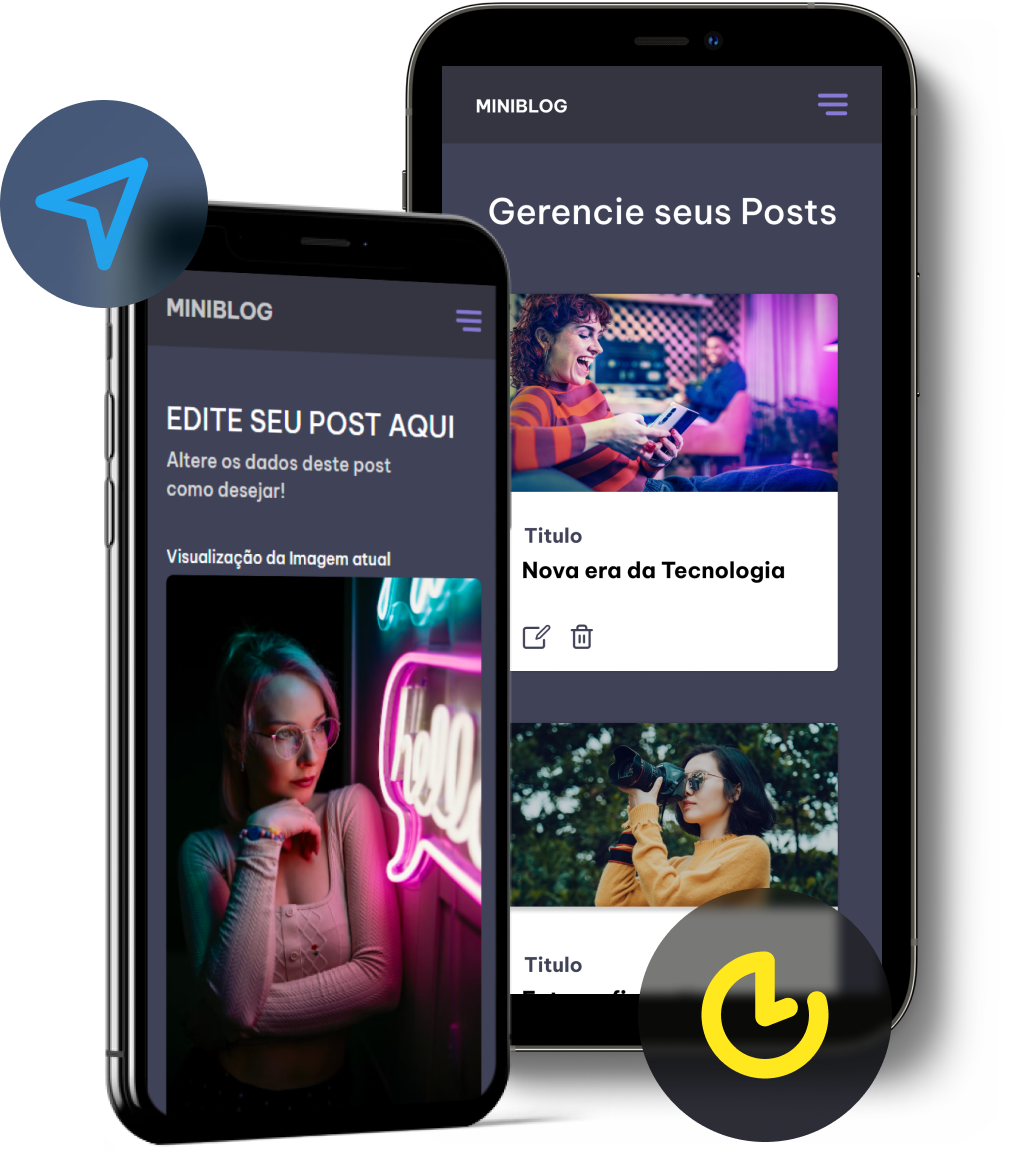
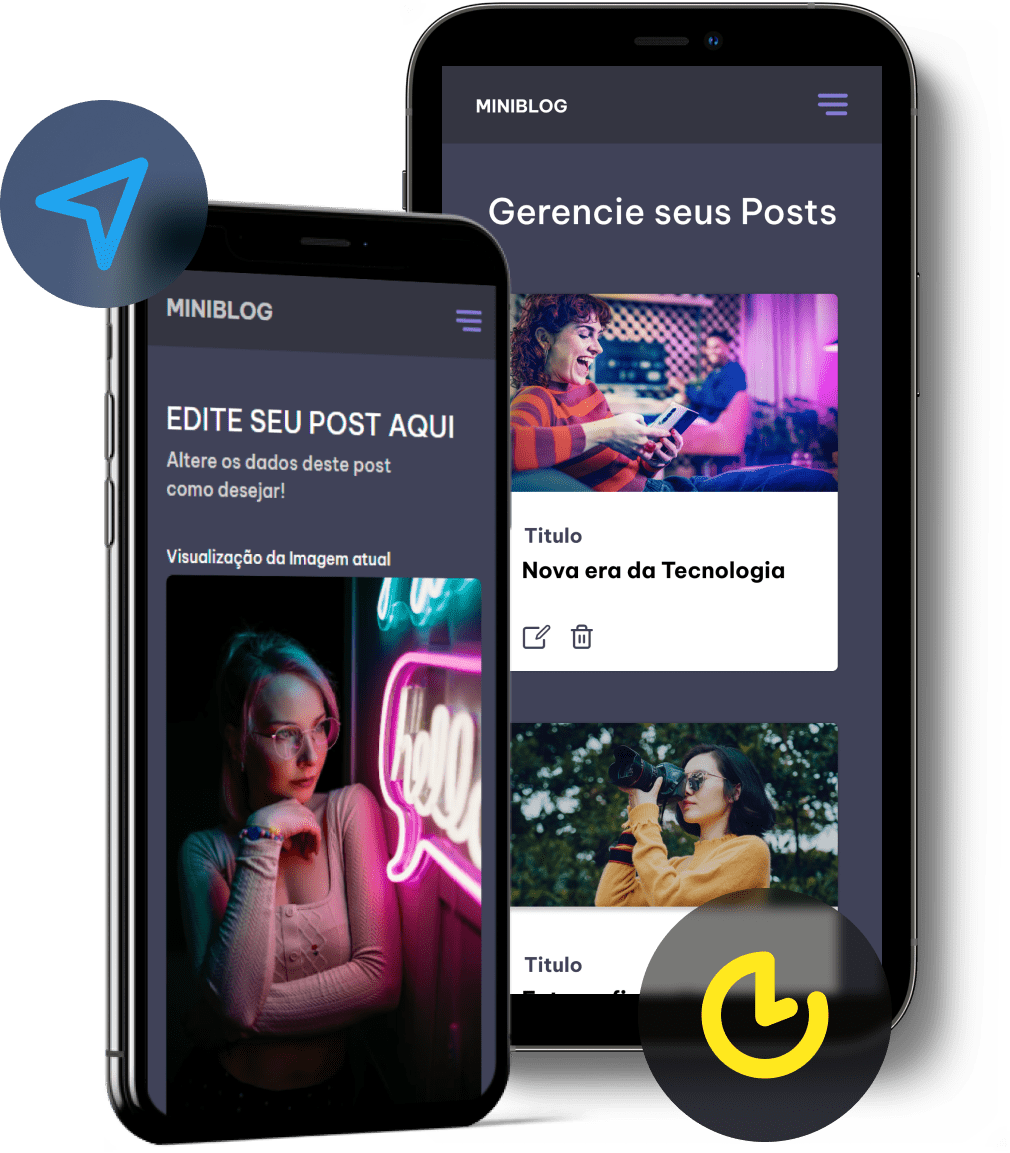
feat: navbar fixed mobile

diff --git a/src/Pages/Search/Search.jsx b/src/Pages/Search/Search.jsx
@@ -9,18 +9,16 @@ import { PostCardSkeleton } from "../../components/PostCard/PostCardSkeleton";
 export const Search = () => {
   const query = useQuery();
   const search = query.get("q").toLocaleLowerCase();
-  const {
-    documents: posts,
-  } = useFetchDocuments("posts", search);
+  const { documents: posts, loading } = useFetchDocuments("posts", search);
   return (
     <AnimatePresence>
       <motion.div
         className={styles.search}
         initial={{ opacity: 0 }}
         animate={{ opacity: 1 }}
-        transition={{ duration: 0.5, damping: 5 }}
+        transition={{ duration: 0.8, damping: 5 }}
       >
-        {posts && posts.length === 0 ? (
+        {posts && posts.length === 0 && (
           <div className={styles.notFoundSearch}>
             <div className={styles.contents}>
               <h1>Hum...</h1>
@@ -34,58 +32,56 @@ export const Search = () => {
               <img src="/NotFound.svg" alt="Ilustração NotFound" />
             </div>
           </div>
-        ) : (
-          <div className={styles.resultSearch}>
-            <Link to="/">
-              <svg
-                width="20"
-                height="16"
-                viewBox="0 0 20 16"
-                fill="none"
-                xmlns="http://www.w3.org/2000/svg"
-              >
-                <path
-                  d="M18.9167 8H2"
-                  stroke="#F0F9FF"
-                  strokeWidth="2"
-                  strokeLinecap="round"
-                  strokeLinejoin="round"
-                />
-                <path
-                  d="M8 15L1 8L8 1"
-                  stroke="#F0F9FF"
-                  strokeWidth="2"
-                  strokeLinecap="round"
-                  strokeLinejoin="round"
-                />
-              </svg>
-            </Link>
-
-            <h1>
-              Resultados da busca por <span>{search}</span>{" "}
-            </h1>
-          </div>
         )}
 
-        {posts ? (
-          posts.map((post) => {
-            return (
-              <>
-                <PostCard
-                  id={post.id}
-                  key={`post.id ${"search"}`}
-                  CreatedDate={post.createdDate}
-                  CreatedBy={post.createdBy}
-                  title={post.title}
-                  content={post.content}
-                  image={post.image}
-                  arrayTags={post.arrayTags}
-                />
-              </>
-            );
-          })
-        ) : (
-          <PostCardSkeleton />
+        {posts && posts.length > 0 && (
+          <>
+            <div className={styles.resultSearch}>
+              <Link to="/">
+                <svg
+                  width="20"
+                  height="16"
+                  viewBox="0 0 20 16"
+                  fill="none"
+                  xmlns="http://www.w3.org/2000/svg"
+                >
+                  <path
+                    d="M18.9167 8H2"
+                    stroke="#F0F9FF"
+                    strokeWidth="2"
+                    strokeLinecap="round"
+                    strokeLinejoin="round"
+                  />
+                  <path
+                    d="M8 15L1 8L8 1"
+                    stroke="#F0F9FF"
+                    strokeWidth="2"
+                    strokeLinecap="round"
+                    strokeLinejoin="round"
+                  />
+                </svg>
+              </Link>
+              <h1>
+                Resultados da busca por <span>{search}</span>{" "}
+              </h1>
+            </div>
+            {loading && <PostCardSkeleton />}
+            {!loading &&
+              posts?.map((post) => {
+                return (
+                  <PostCard
+                    id={post.id}
+                    key={`post.id ${"search"}`}
+                    CreatedDate={post.createdDate}
+                    CreatedBy={post.createdBy}
+                    title={post.title}
+                    content={post.content}
+                    image={post.image}
+                    arrayTags={post.arrayTags}
+                  />
+                );
+              })}
+          </>
         )}
       </motion.div>
     </AnimatePresence>

diff --git a/src/Pages/Dashboard/Dashboard.jsx b/src/Pages/Dashboard/Dashboard.jsx
@@ -5,13 +5,12 @@ import { useFetchDocuments } from "../../hooks/useFetchDocuments";
 import { useDeleteDocument } from "../../hooks/useDeleteDocument";
 import { PostDashboard } from "../../components/PostDashboard/PostDashboard";
 import { PostDashboardSkeleton } from "../../components/PostDashboard/PostDashboardSkeleton";
+import { motion } from "framer-motion";
 
 export const Dashboard = () => {
   const { user } = useAuthValue();
   const uid = user.uid;
-  const {
-    documents: posts, loading
-  } = useFetchDocuments("posts", null, uid);
+  const { documents: posts, loading } = useFetchDocuments("posts", null, uid);
   const { deleteDocument, response } = useDeleteDocument("posts");
 
   return (
@@ -36,25 +35,31 @@ export const Dashboard = () => {
                 id={post.id}
                 deleteDocument={deleteDocument}
               />
-            )
-          })
-        }
+            );
+          })}
       </div>
 
       {posts && posts.length == 0 && (
         <>
-          <div className={styles.dashboardNoPosts}>
-            <div>
+          <motion.div
+            className={styles.dashboardNoPosts}
+            initial={{ opacity: 0 }}
+            animate={{ opacity: 1 }}
+            transition={{ duration: 0.5, damping: 5 }}
+          >
+            <div className={styles.leftArea}>
+              <h2>Começe agora mesmo</h2>
               <p>Não foram encontros posts, crie um novo post agora </p>
               <Link to="/posts/create">
                 <button className={styles.btn}>Criar Post</button>
               </Link>
+              <img src="/GroupPost.jpg" alt="" />
             </div>
 
             <div className={styles.image}>
               <img src="./CreatePost.svg" alt="" />
             </div>
-          </div>
+          </motion.div>
         </>
       )}
     </div>

diff --git a/src/components/NavBar/NavBar.jsx b/src/components/NavBar/NavBar.jsx
@@ -1,5 +1,5 @@
 import { useEffect } from "react";
-import { NavLink, Link } from "react-router-dom";
+import { NavLink, Link, useNavigate } from "react-router-dom";
 import { useAuthValue } from "../../context/AuthContext";
 import { useAuthentication } from "../../hooks/useAuthentication";
 import { motion, AnimatePresence } from "framer-motion";
@@ -10,6 +10,7 @@ export const NavBar = () => {
   const { app } = useAppContext();
   const { logout } = useAuthentication();
   const { user } = useAuthValue();
+  const navigate = useNavigate();
 
   useEffect(() => {
     window.addEventListener("resize", updateScreen);
@@ -27,14 +28,20 @@ export const NavBar = () => {
     <header>
       <nav className={styles.nav}>
         <div className={styles.logo}>
-          <Link to="/">
+          <Link
+            to="/"
+            onClick={() => {
+              navigate("/");
+            }}
+          >
             Mini<span>Blog</span>
           </Link>
         </div>
         <AnimatePresence>
           <motion.ul
-            className={`${styles.listNav} ${app.menuIsOpen ? styles.active : ""
-              }`}
+            className={`${styles.listNav} ${
+              app.menuIsOpen ? styles.active : ""
+            }`}
             initial={false}
             key="menu"
             animate={{ opacity: 1, transition: { duration: 0.8 } }}
@@ -43,6 +50,9 @@ export const NavBar = () => {
             <li>
               <NavLink
                 to="/"
+                onClick={() => {
+                  navigate("/");
+                }}
                 className={({ isActive }) => (isActive ? styles.active : null)}
               >
                 Home

diff --git a/src/Pages/Dashboard/Dashboard.module.scss b/src/Pages/Dashboard/Dashboard.module.scss
@@ -27,19 +27,34 @@
     padding-inline: 20px;
     width: 100%;
     max-width: 1280px;
-
-    p {
-      font-weight: 500;
-      font-size: 22px;
-      line-height: 28px;
-      letter-spacing: 0.0607778px;
-      color: #dbdbdb;
-      max-width: 340px;
-      margin-bottom: 30px;
-    }
-
-    .btn {
-      padding: 14px 20px;
+    .leftArea {
+      display: flex;
+      flex-direction: column;
+      h2 {
+        font-weight: 500;
+        font-size: 32px;
+        line-height: 26px;
+        color: #fff;
+        margin-bottom: 27px;
+      }
+      p {
+        font-weight: 500;
+        font-size: 22px;
+        line-height: 28px;
+        letter-spacing: 0.0607778px;
+        color: #dbdbdb;
+        max-width: 340px;
+        margin-bottom: 30px;
+      }
+      img {
+        margin-top: 65px;
+        width: 379px;
+        height: 234px;
+        border-radius: 20px;
+      }
+      .btn {
+        padding: 14px 20px;
+      }
     }
   }
 
@@ -53,7 +68,7 @@
   }
 
   @include responsive(1080px) {
-    gap: 45px;
+    gap: 35px;
 
     h1 {
       margin: 20px;
@@ -64,6 +79,11 @@
       flex-direction: column;
       gap: 40px;
       align-items: center;
+      .leftArea {
+        img {
+          display: none;
+        }
+      }
     }
 
     .image {
@@ -75,6 +95,14 @@
 
   @include responsive(480px) {
     gap: 22px;
+    .dashboardNoPosts {
+      .leftArea {
+        h2 {
+          font-size: 24px;
+          margin-bottom: 20px;
+        }
+      }
+    }
 
     h1 {
       font-size: 28px;

diff --git a/src/components/NavBar/NavBar.module.scss b/src/components/NavBar/NavBar.module.scss
@@ -77,12 +77,16 @@ header {
   }
 
   @include responsive(1080px) {
+    position: fixed;
+    top: 0px;
+    left: 0px;
+    width: 100%;
     .listNav {
       opacity: 0;
       pointer-events: none;
       position: absolute;
       display: none;
-      animation: menu .8s cubic-bezier(0.075, 0.82, 0.165, 1);
+      animation: menu 0.8s cubic-bezier(0.075, 0.82, 0.165, 1);
 
       li {
         a {
@@ -90,7 +94,6 @@ header {
             background-color: transparent;
             position: relative;
             padding-block: 0px;
-
 
             &::after {
               content: "";
@@ -111,6 +114,8 @@ header {
     .mobile {
       display: flex;
     }
+  }
+  @include responsive(480px) {
   }
 
   @keyframes menu {

diff --git a/src/styles/main.module.scss b/src/styles/main.module.scss
@@ -35,7 +35,9 @@ body {
   display: flex;
   flex-direction: column;
   justify-content: space-between;
-
+  @include responsive(1080px) {
+    padding-top: 115px;
+  }
   @include responsive(700px) {
     gap: 40px;
   }

diff --git a/src/Pages/SignUp/SignUp.module.scss b/src/Pages/SignUp/SignUp.module.scss
@@ -69,6 +69,7 @@
     .formSignUp {
       .title {
         font-size: 26px;
+        line-height: 35px;
       }
     }
   }
